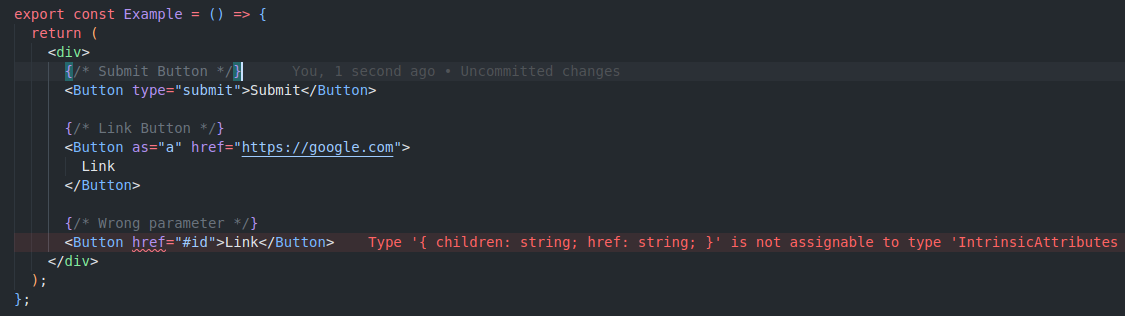
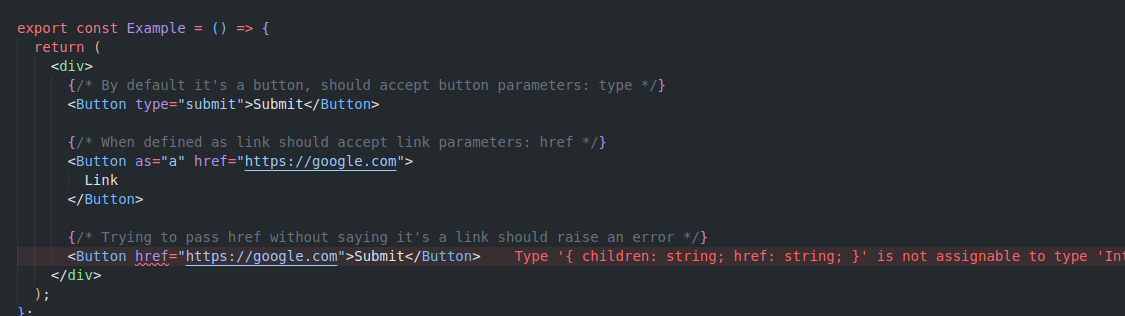
fowared ref

Changed region(s): [[0.0, 0.0285, 0.5911, 0.6551], [0.0311, 0.6835, 1.0, 0.9114], [0.0, 0.9399, 0.0311, 0.9684]]

diff --git a/frontend/linaria-ui/src/components/Button/Button.tsx b/frontend/linaria-ui/src/components/Button/Button.tsx
@@ -122,6 +122,14 @@ type PolymorphicComponentProp<
 > = React.PropsWithChildren<Props & AsProp<C>> &
   Omit<React.ComponentPropsWithoutRef<C>, PropsToOmit<C, Props>>;
 
+type PolymorphicRef<C extends React.ElementType> =
+  React.ComponentPropsWithRef<C>["ref"];
+
+type PolymorphicComponentPropWithRef<
+  C extends React.ElementType = "button",
+  Props = object
+> = PolymorphicComponentProp<C, Props> & { ref?: PolymorphicRef<C> };
+
 const Button = <C extends React.ElementType = "button">({
   as,
   size = "md",
@@ -129,8 +137,9 @@ const Button = <C extends React.ElementType = "button">({
   color = "primary",
   variant = "default",
   className,
+  ref,
   ...rest
-}: PolymorphicComponentProp<C, ButtonProps>) => {
+}: PolymorphicComponentPropWithRef<C, ButtonProps>) => {
   const Component = as || "button";
 
   return (
@@ -143,8 +152,26 @@ const Button = <C extends React.ElementType = "button">({
         { fullWidth },
         className
       )}
+      ref={ref}
       {...rest}
     />
+  );
+};
+
+export const Example = () => {
+  return (
+    <div>
+      {/* By default it's a button, should accept button parameters: type */}
+      <Button type="submit">Submit</Button>
+
+      {/* When defined as link should accept link parameters: href */}
+      <Button as="a" href="https://google.com">
+        Link
+      </Button>
+
+      {/* Trying to pass href without saying it's a link should raise an error */}
+      <Button href="https://google.com">Submit</Button>
+    </div>
   );
 };
 
